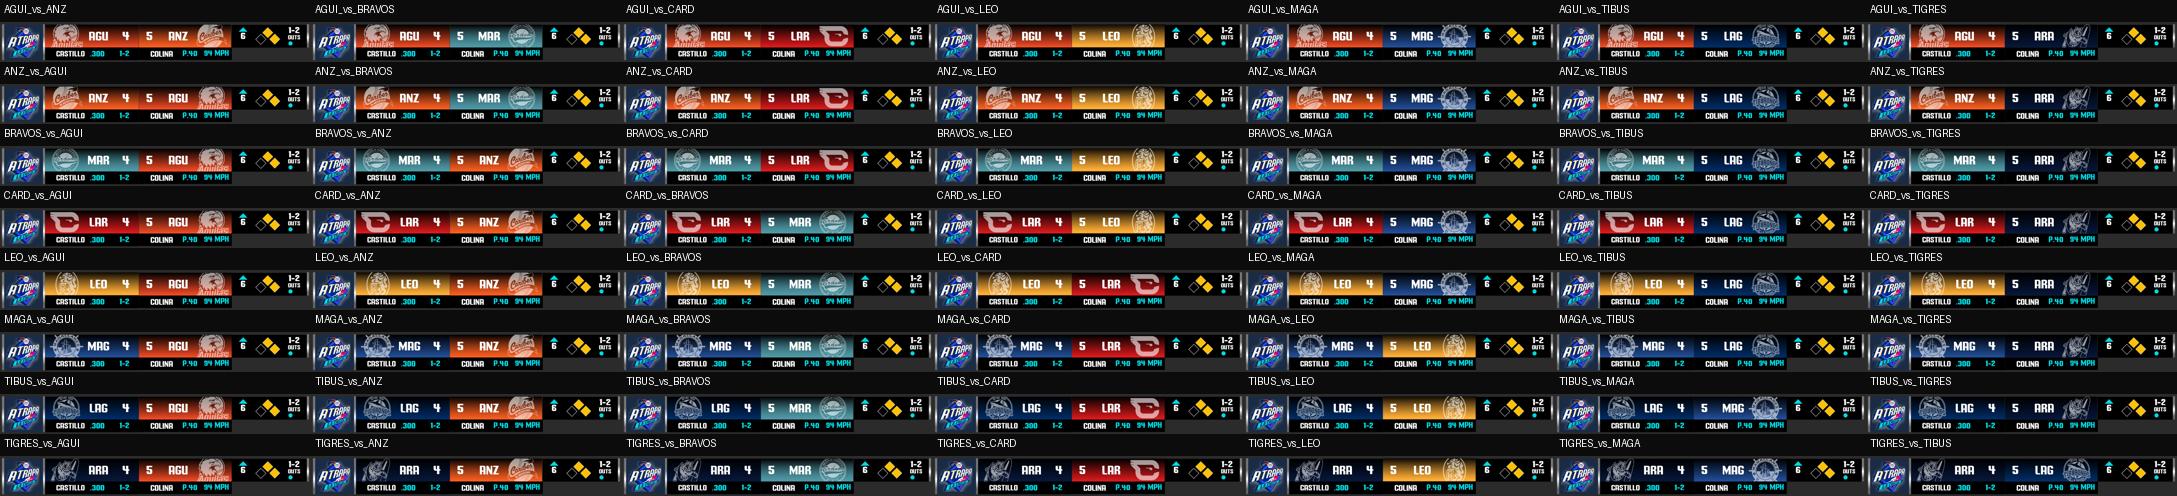
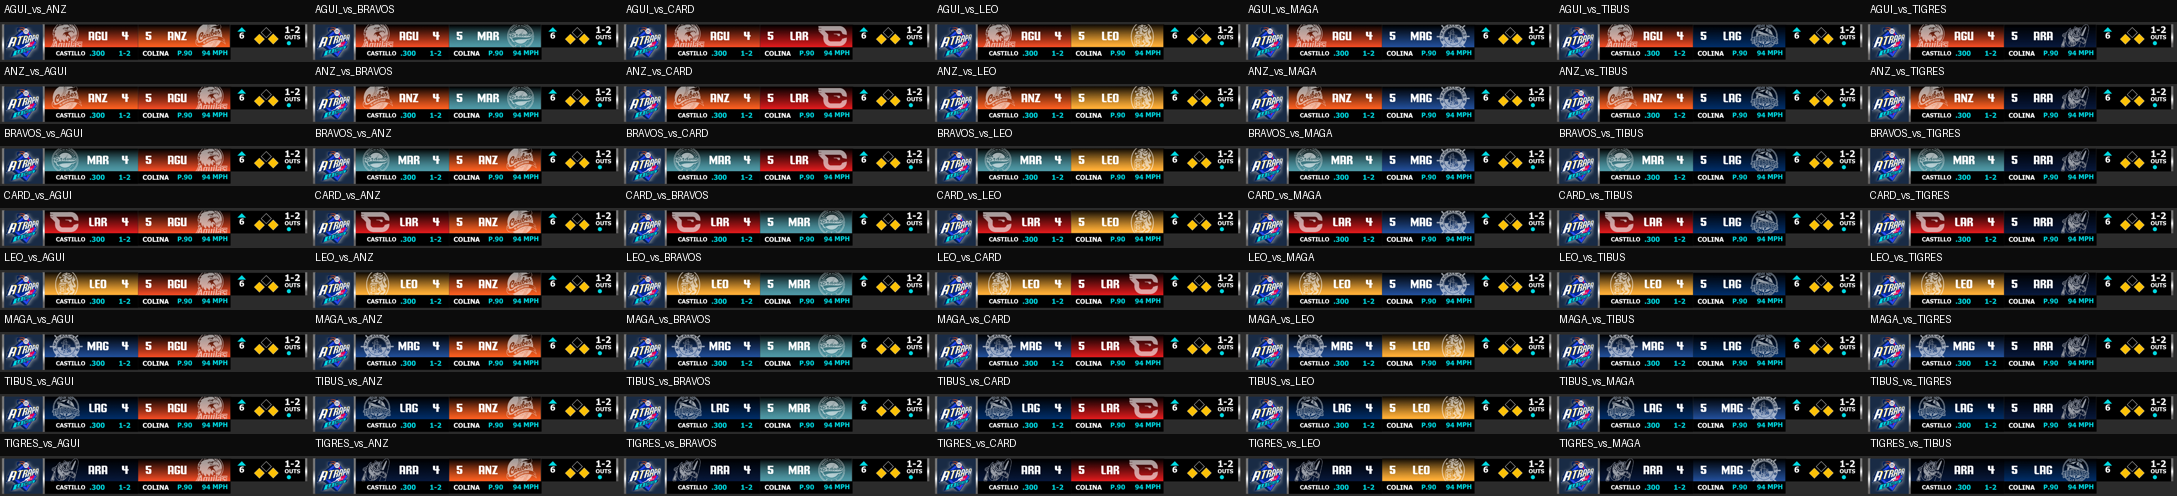
Score: Tahoma Bold en la barra de jugadores, el conteo, OUTS y el inning
Pedido de Leon (2026-10-31), con una captura de AE. Las siglas y las
carreras siguen en LT Energy. Es la Tahoma del sistema (sin fPath): es de
Microsoft y el repo es público. La barra pasa a cuerpo 18, el de la
captura, con las cajas rehechas; el inning, a un cuerpo menor y una caja
más ancha para que FINAL no parta. Capturas del score regeneradas.

Claude-Session: https://claude.ai/code/session_01DM7A4JPUGYSyxADh919GkV

diff --git a/herramientas/prep.js b/herramientas/prep.js
@@ -190,6 +190,72 @@ const LOGO = 'LOGO FINAL ATRAPA LA EMOCION_1.png';
 // (x 821). Si el ancla llega en otro lugar, falla: medir de nuevo el centro del 10.
 const INNING_ESCALA = 1.4;
 const INNING_ANCLA = [-17.503, -15.02];
+// Tahoma Bold en la barra negra de abajo (nombres y números), el conteo, OUTS y el inning (Leon,
+// 2026-10-31, con una captura de cómo lo quiere); las siglas y las carreras siguen en LT Energy. Es
+// la del sistema, sin archivo en el repo (sin fPath: Lottie la da por cargada y el navegador la toma
+// instalada, como en todo Windows y macOS). El ascent es la altura de la H (1489 de 2048), la medida
+// que da el de LT Energy (73,7 contra una H de 730 de 1000).
+const TAHOMA = { origin: 0, fPath: '', fClass: '', fFamily: 'Tahoma', fWeight: '', fStyle: 'Bold', fName: 'Tahoma-Bold', ascent: 72.71 };
+// Lo que cada capa centra en vertical: mayúsculas (la H: LT Energy 0–0.73, Tahoma 0–0.727) o
+// números (el 0: 0–0.664 y −0.015–0.742). Al cambiar la fuente o el cuerpo, el centro queda donde
+// estaba (la caja de Lottie pone la línea base en ps[1] + ascent × cuerpo).
+const CENTRO = { mayusculas: [0.365, 0.3635], numeros: [0.332, 0.3635] };
+// [capa, qué centra, cuerpo nuevo (null: el mismo)]. La barra de abajo pasa de 21 a 18 (y de 22 a
+// 18.86: la misma proporción), el tamaño de la captura de Leon: con la Tahoma, más ancha, al 21
+// CHIRINOS no entraba (119 px). El inning, al cuerpo en que sus números miden lo mismo que en LT
+// Energy (los de la Tahoma son un 14 % más altos y tocaban las flechas). El conteo y OUTS, igual.
+const TAH_CAPAS = [
+    ['.bateador', 'mayusculas', 18], ['.lanzador', 'mayusculas', 18], ['.mph', 'mayusculas', 18],
+    ['.lanzamientos', 'numeros', 18], ['.velocidad', 'numeros', 18],
+    ['.average', 'numeros', 18.86], ['.actuacion', 'numeros', 18.86],
+    ['.inning', 'numeros', 8.77], ['.conteobolasystrikes', 'numeros', null], ['.outs', 'mayusculas', null]
+];
+// Las cajas de la barra de abajo, en px de pantalla (la barra negra va de x 219 a 754, con la
+// división entre bateador y lanzador en la 487). Sin cambios: el bateador (250.7–336.5, entra
+// CASTRO, 78) y el average (347.2–408.6). La actuación crece hacia la izquierda hasta que entra
+// 10-4 (44.8). Del lado del lanzador, de derecha a izquierda: MPH (44.4) termina donde terminaba
+// (745.6, 8.4 px antes del final); la velocidad, 5.6 px antes de MPH, con lugar para 100 (36.6); los
+// lanzamientos, 8.4 px antes, para P.100 (55.1), y el lanzador, 8.4 px antes, desde 4 px después de
+// la división: 94 px (CHIRINOS, 101.5, baja a 16: Lottie achica de a 1).
+const TAH_ACTUACION = [431.3, 476.8];
+const TAH_MPH_FIN = 745.6, TAH_MPH = 44.4;
+const TAH_VELOCIDAD = 37.5, TAH_LANZAMIENTOS = 56, TAH_LANZADOR_DESDE = 491;
+const TAH_AIRE = 8.4, TAH_AIRE_MPH = 5.6;
+const TAH_INNING = 56;
+function tahomaEnLaBarra(d) {
+    if (d.fonts.list.length !== 1 || d.fonts.list[0].fName !== 'LTEnergy-Regular') throw new Error('score: fuentes inesperadas');
+    const lt = d.fonts.list[0].ascent / 100, ta = TAHOMA.ascent / 100;
+    d.fonts.list.push({ ...TAHOMA });
+    for (const [nm, que, cuerpo] of TAH_CAPAS) {
+        const s = doc(d, nm), [cl, ct] = CENTRO[que], s2 = cuerpo ?? s.s;
+        if (s.f !== 'LTEnergy-Regular') throw new Error(`${nm}: fuente ${s.f}`);
+        s.ps[1] = +(s.ps[1] + (lt - cl) * s.s - (ta - ct) * s2).toFixed(3);
+        if (s.lh) s.lh = +(s.lh * s2 / s.s).toFixed(3);
+        s.s = s2;
+        s.f = TAHOMA.fName;
+    }
+    // Una caja [x0, x1] en px de pantalla, a unidades de su capa.
+    const caja = (nm, x0, x1) => {
+        const l = layer(d, nm), s = doc(d, nm), o = enPantalla(d, l, 0), u = enPantalla(d, l, 1) - o;
+        s.ps[0] = +((x0 - o) / u).toFixed(3);
+        s.sz[0] = +((x1 - x0) / u).toFixed(3);
+    };
+    caja('.actuacion', ...TAH_ACTUACION);
+    const mph = layer(d, '.mph'), m = doc(d, '.mph');
+    const desdeMph = TAH_MPH_FIN - TAH_MPH;
+    m.ps[0] = +((desdeMph - enPantalla(d, mph, 0)) / (enPantalla(d, mph, 1) - enPantalla(d, mph, 0))).toFixed(3);
+    const finVel = desdeMph - TAH_AIRE_MPH, finLzm = finVel - TAH_VELOCIDAD - TAH_AIRE, finLan = finLzm - TAH_LANZAMIENTOS - TAH_AIRE;
+    caja('.velocidad', finVel - TAH_VELOCIDAD, finVel);
+    caja('.lanzamientos', finLzm - TAH_LANZAMIENTOS, finLzm);
+    caja('.lanzador', TAH_LANZADOR_DESDE, finLan);
+    // FINAL en el inning: con la Tahoma, más ancha, no entraba en la caja (38 px) hasta un cuerpo en
+    // que ya entraban dos líneas, y salía partido (FINA / L). La caja crece a TAH_INNING px, centrada
+    // (del negro que va de x 753 a la tercera base, en la 821), y el interlineado va al triple del
+    // cuerpo: Lottie achica hasta que entra en una línea, nunca parte.
+    const inn = layer(d, '.inning'), si = doc(d, '.inning');
+    anchoCentrado(si, +(TAH_INNING / escalaX(d, inn)).toFixed(3));
+    si.lh = +(3 * si.s).toFixed(3);
+}
 if (hay('SCOREBUG')) {
     const d = load(path.join(SRC, 'SCOREBUG/data.json'));
 
@@ -320,6 +386,7 @@ if (hay('SCOREBUG')) {
     vel.sz[0] = 30;                    // entra 100 (28.25)
     vel.ps[0] = fin - vel.sz[0];
     vel.t = vel.t.trim();              // "90 ": el espacio separaba de MPH a la izquierda
+    tahomaEnLaBarra(d);
 
     // La pausa del marcador va después del último keyframe de la entrada (todo menos la barra de
     // jugadores): desde el export del 2026-10-22 es el brillo del logo, que pasa del 29 al 58, y

diff --git a/herramientas/lint.py b/herramientas/lint.py
@@ -81,8 +81,10 @@ for g in GRAFICOS:
     salidas = {'stop'} | {(m.get('payload') or {}).get('stop') for m in d['markers']} - {None}
     for name in salidas:
         if name in ms and abs(ms[name]['dr']) / d['fr'] > 4.5: p(g, f'la salida {name} dura {abs(ms[name]["dr"]) / d["fr"]:.1f} s (más de 4,5)')
-    # cada fuente en un archivo de la carpeta del gráfico (CasparCG la abre con file://)
+    # cada fuente en un archivo de la carpeta del gráfico (CasparCG la abre con file://), salvo las
+    # del sistema que se piden a propósito: la Tahoma Bold del score (no se redistribuye)
     for f in d['fonts']['list']:
+        if (g, f.get('fName'), f.get('fPath')) == ('score', 'Tahoma-Bold', ''): continue
         if not f.get('fPath', '').startswith('font/') or not os.path.isfile(REPO + g + '/' + f['fPath']): p(g, f'fPath {f.get("fPath")!r}')
     for a in d['assets']:
         if 'p' in a:

diff --git a/CLAUDE.md b/CLAUDE.md
@@ -12,7 +12,8 @@ bateador, el lanzador, el 3 en línea, los otros juegos, el prevenido, la tabla 
 la estática que mandó el diseñador con sus primeros exports (los del 2026-10-18 traen la variable:
 mide igual, y en el render difiere en el suavizado de algunos bordes de letra; los del 3 en línea y
 los otros juegos y la tabla de posiciones, del 2026-10-22, y el del prevenido, del 2026-10-23, y el del score final, del 2026-10-29, otra vez la estática). Los otros juegos llevan además Chakra Petch Bold
-(`font/ChakraPetch-Bold.ttf`, libre, de Google Fonts) en el título y las carreras. Las keys del
+(`font/ChakraPetch-Bold.ttf`, libre, de Google Fonts) en el título y las carreras, y el score, Tahoma
+Bold en la barra de jugadores, el conteo, OUTS y el inning (la del sistema, sin archivo: ver *Score*). Las keys del
 UPDATE están en su `data.md`. Las imágenes de todos, juntas en `_assets/`, una vez cada una (ver
 *Imágenes: `_assets/`*).
 
@@ -119,10 +120,23 @@ de imagen es lo que destapó el arreglo de *claves sólo CSS* de `index.js`: ant
 escribía como ruta y la barra desaparecía.
 
 Textos: salen en mayúsculas aunque lleguen en minúsculas (ver *Mayúsculas* en Convenciones del
-Lottie). `bateador` y `lanzador` son sólo el apellido: al tamaño del diseño entran unas 7 letras en
-el bateador (`CASTILLO` baja de 21 a 20, `RODRÍGUEZ` a 17) y 8 en el lanzador (`RODRÍGUEZ` a 19);
-más largos encogen dentro de su lugar. Siglas, carreras e inning van centrados sobre el eje del
-texto del diseño; la velocidad, alineada a la derecha contra `MPH`.
+Lottie). `bateador` y `lanzador` son sólo el apellido: al tamaño de la barra (18) entran unas 7
+letras en el bateador (`CASTILLO` baja un poco) y 7 en el lanzador (`CHIRINOS` baja de 18 a 16,
+`RODRÍGUEZ` a 14); más largos encogen dentro de su lugar. Siglas, carreras e inning van centrados
+sobre el eje del texto del diseño; la velocidad, alineada a la derecha contra `MPH`.
+
+Fuente: desde el 2026-10-31 (Leon, con una captura de AE de cómo lo quiere), la barra de jugadores
+(bateador, average, actuación, lanzador, lanzamientos, velocidad y MPH), el conteo, OUTS y el inning
+van en **Tahoma Bold**; las siglas y las carreras siguen en LT Energy. Es la Tahoma **del sistema**
+(viene en todo Windows y macOS): la fuente del JSON no tiene `fPath`, Lottie la da por cargada y el
+navegador la toma instalada. No va el archivo porque es de Microsoft y el repo es público (el lint
+la deja pasar sólo a ella). En un contenedor Linux hay que instalarla para probar (`~/.fonts/`). La
+Tahoma es más ancha: la barra pasa de cuerpo 21 (22 el average y la actuación) a 18 (18,86), el
+tamaño de la captura, y sus cajas se rehicieron (`tahomaEnLaBarra()` en `prep.js`: MPH termina donde
+terminaba y el lado del lanzador se arma de derecha a izquierda, con lugar para `P.100` y `100`). El
+inning va a un cuerpo menor (8,77: los números de la Tahoma son un 14 % más altos y tocaban las
+flechas), en una caja de 56 px y con interlineado triple, para que `FINAL` encoja en una línea en
+vez de partir. Cada texto queda con su centro vertical donde estaba.
 
 Inning: más grande que en el diseño (Leon, 2026-10-24, sin que pise nada). La capa va al 140 %
 (Leon, entre 130 y 140) y crece desde su ancla, que el diseño puso en el centro del `10`: queda
@@ -760,6 +774,9 @@ pasa a `_assets/` (ver *Imágenes: `_assets/`*).
 - **Inning:** la capa al 140 % (`INNING_ESCALA`), desde su ancla (`INNING_ANCLA`, el centro del
   `10` del diseño). Falla si el ancla llega en otro lugar o con la escala animada: medir de nuevo el
   centro del `10` y la distancia a las flechas.
+- **Tahoma Bold:** `tahomaEnLaBarra()` (ver *Fuente* arriba): la fuente, los cuerpos, el centro
+  vertical y las cajas de la barra y del inning. Las cajas van en px de pantalla: si la barra se
+  mueve, medir de nuevo (`TAH_*`).
 - **Nulo raíz:** desde el export del 2026-10-17 todo cuelga de `Null 1` (p `[962, 537.2]`, s 134 %):
   `prep.js` lo corre `CORRE` (2, 3 px) hasta la zona segura de títulos. Si llega en otro lugar o a
   otra escala, falla: medir de nuevo la esquina (bbox del render en el frame 90) y mover `CORRE`.
